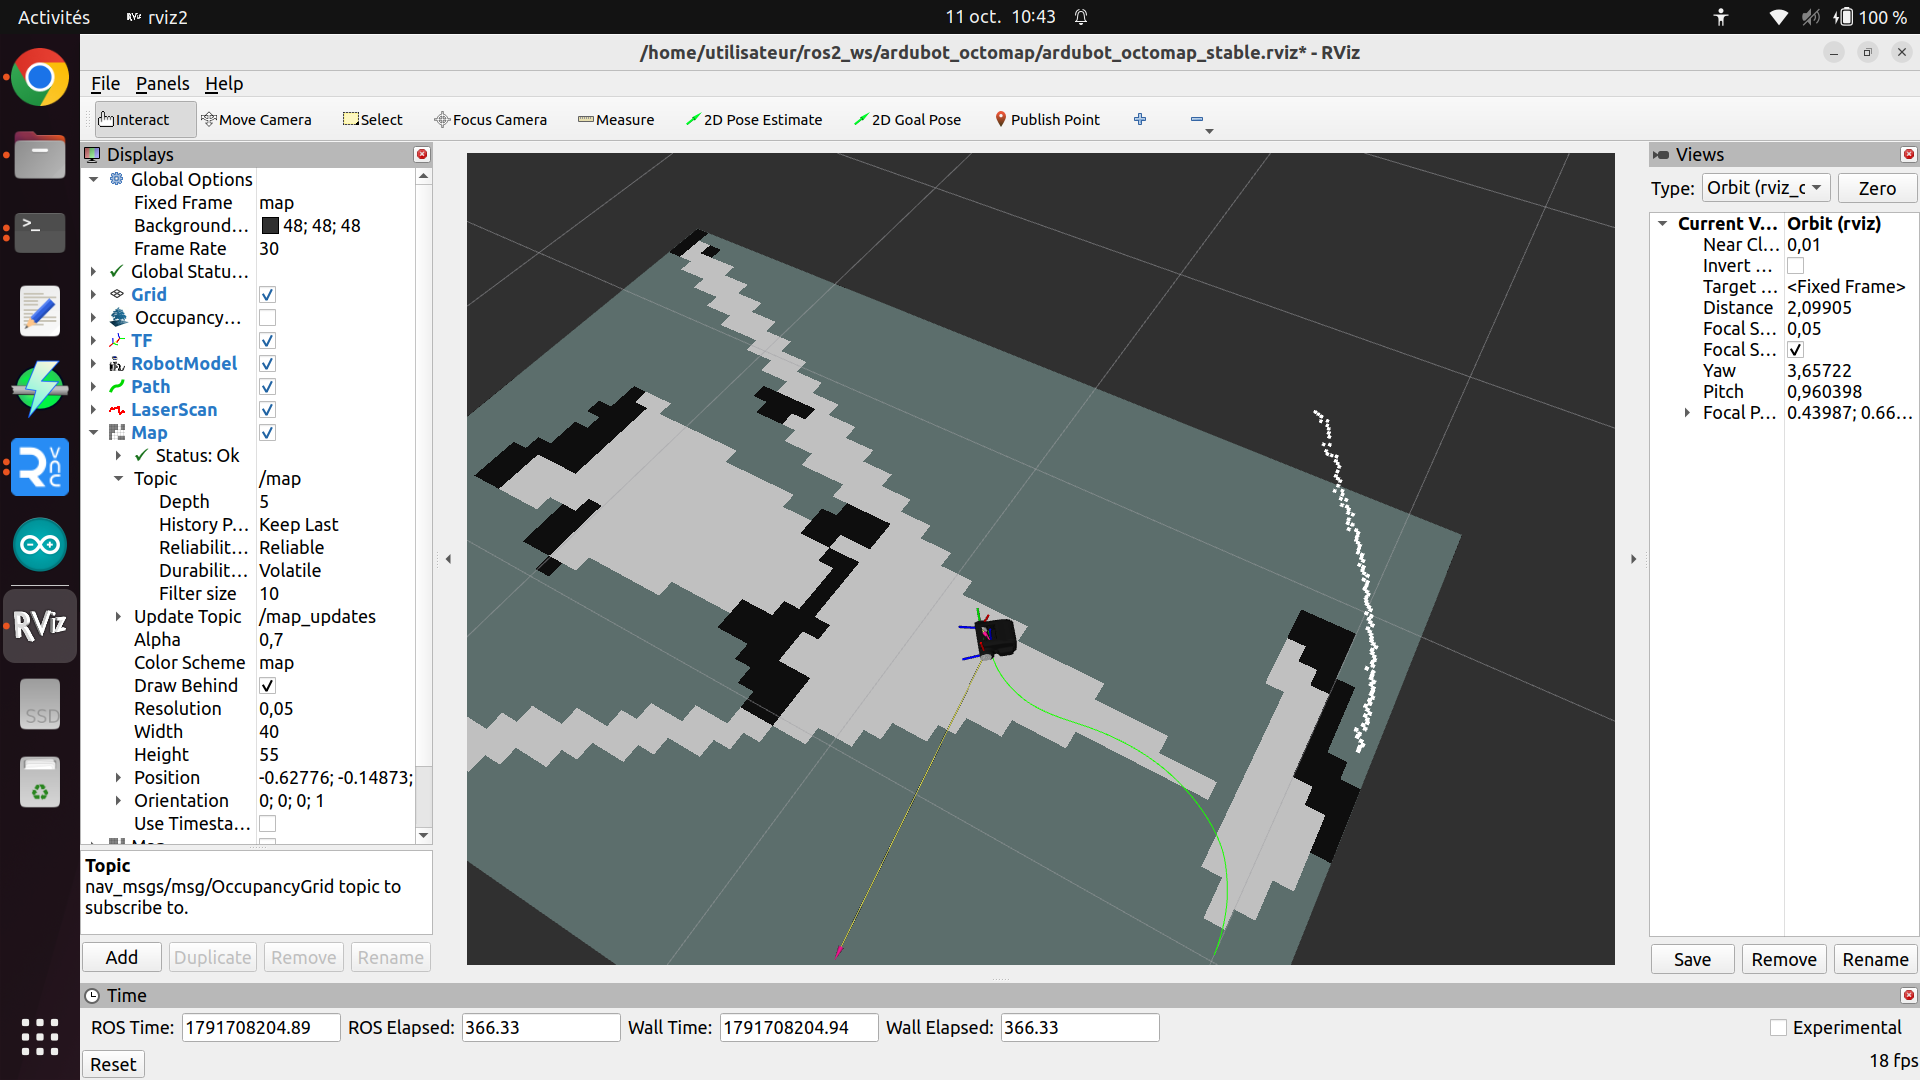
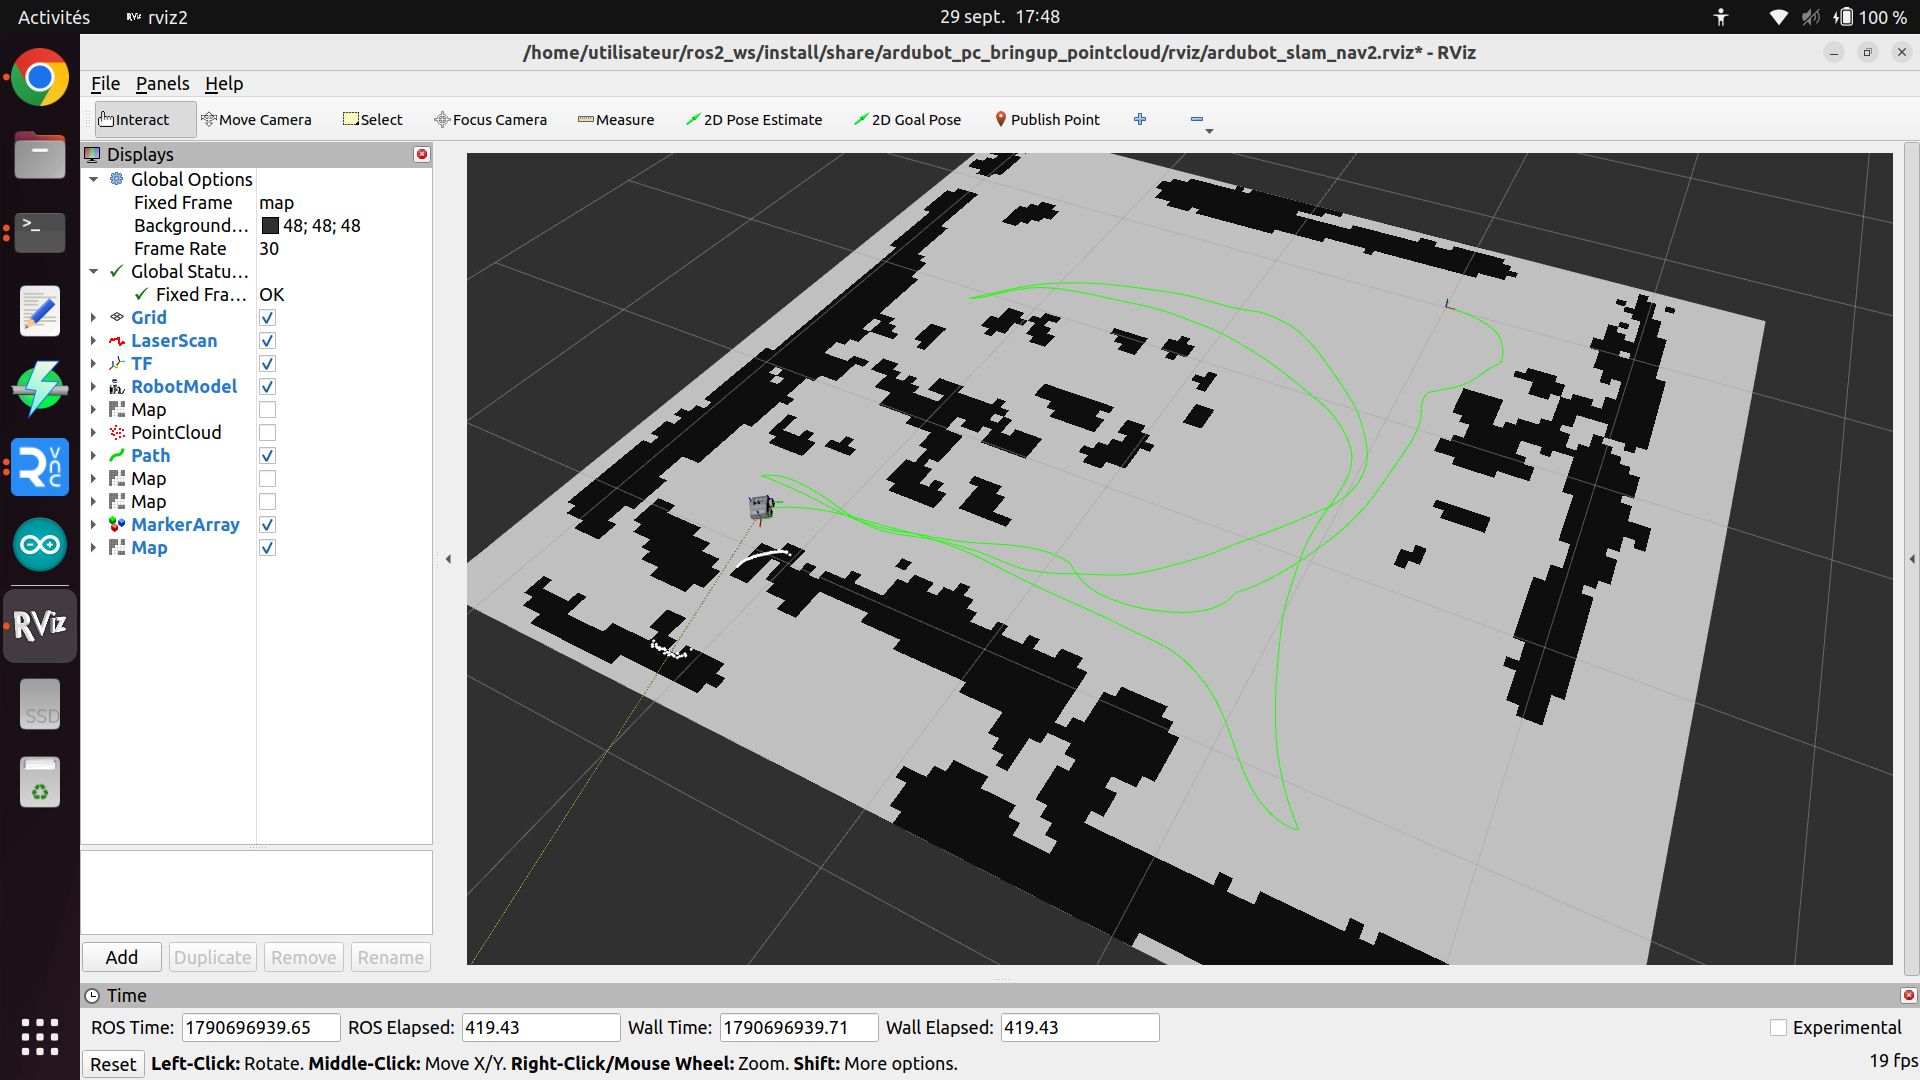
Replace selected screenshots and remove caption dates
Use the two images supplied by the author for the 2D occupancy and 3D trajectory views. Remove dates from all screenshot captions and update media provenance.

diff --git a/README.md b/README.md
@@ -126,25 +126,25 @@ Old occupied positions are not accumulated by the clearing layer. Current obstac
 
 ## Development screenshots
 
-These captures come from the original development setup in October 2026. They illustrate the robot project, not a fresh end-to-end validation of this compact repository. In particular, the screenshots use the development RViz layout and OctoMap display; the included lightweight RViz configuration is different.
+These captures come from the original development setup. They illustrate the robot project, not a fresh end-to-end validation of this compact repository. In particular, the screenshots use the development RViz layout and OctoMap display; the included lightweight RViz configuration is different.
 
 ### 3D occupancy model and estimated trajectory
 
 ![OctoMap occupancy voxels and a green trajectory displayed in RViz](docs/images/rviz-octomap-overview.png)
 
-*19 October 2026 — a 3D occupancy model, the robot model and an estimated trajectory shown together in RViz. The trajectory is an estimate, not external ground truth.*
+*A 3D occupancy model and an estimated trajectory shown together in RViz. The trajectory is an estimate, not external ground truth.*
 
 ### Height-selected projection and obstacle structure
 
 ![Close-up of 3D obstacle voxels above a projected occupancy grid in RViz](docs/images/rviz-projected-occupancy.png)
 
-*11 October 2026 — a close-up of the voxel model over a projected occupancy grid. The development display shows a 0.025 m grid resolution.*
+*A close-up of the voxel model over a projected occupancy grid. The development display shows a 0.025 m grid resolution.*
 
 ### 2D occupancy map and live scan
 
 ![2D occupancy map, robot model, trajectory and live scan in RViz](docs/images/rviz-2d-map.png)
 
-*11 October 2026 — the `/map` occupancy grid, a scan and the robot's trajectory in the development interface. This is a separate 2D map view, not the 3D projection above.*
+*A 2D occupancy grid, a scan and the robot's trajectory in the development interface. This is a separate 2D map view, not the 3D projection above.*
 
 ## ROS interfaces
 
@@ -256,3 +256,4 @@ Before the public release, the next engineering steps are to verify the exact bo
 Created by **jled12 / 3DJLed**. [Project videos and channel](https://www.youtube.com/@3DJLed).
 
 The repository includes the **GPL-3.0** license selected for the project. Existing per-package license declarations and third-party notices are preserved; external SDKs and libraries remain under their own terms. See [LICENSE](LICENSE), [third-party notes](THIRD_PARTY.md) and the Arduino dependency notes for details.
+

diff --git a/docs/images/README.md b/docs/images/README.md
@@ -6,8 +6,9 @@ These files are existing project visuals supplied through the ArduBot working ma
 |---|---|---|
 | ardubot-logo.png | Logo ArduBot et robot rétroéclairé.png | Existing logo and branded artwork |
 | ardubot-prototype.jpg | 20260729_170207(1).jpg | Prototype photograph |
-| rviz-octomap-overview.png | image(20261019-110339).png | 19 October development occupancy/trajectory view |
-| rviz-projected-occupancy.png | image(20261011-121701).png | 11 October 3D model and projected-grid close-up |
-| rviz-2d-map.png | image(20261011-084341).png | 11 October /map and scan view |
+| rviz-octomap-overview.png | Capture d’écran du 2026-10-18 11-54-00(1).png | Replacement development occupancy/trajectory view |
+| rviz-projected-occupancy.png | image(20261011-121701).png | 3D model and projected-grid close-up |
+| rviz-2d-map.png | Image ChatGPT 30 sept. 2026, 16_22_17.png | Replacement 2D occupancy-grid and scan view |
 
 The screenshots illustrate the historical development setup. They are not evidence of fresh hardware testing of this compact source distribution. The main README identifies that distinction and links to the current verification report.
+
